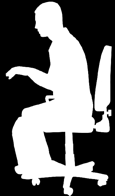
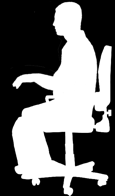
This guy is standing there and... Oh my God!

Changed region(s): [[0.0261, 0.0, 0.887, 0.6429], [0.887, 0.551, 0.913, 0.6122], [0.4435, 0.4592, 0.4696, 0.4898]]

diff --git a/Charity/Charity/Controllers/ChairController.m b/Charity/Charity/Controllers/ChairController.m
@@ -7,6 +7,7 @@
 //
 
 #import <KAProgressLabel/KAProgressLabel.h>
+#import <AudioToolbox/AudioToolbox.h>
 #import "TimerViewController.h"
 #import "ChairController.h"
 
@@ -70,11 +71,11 @@
         [self slouchTimerStart:sat & self.slouched];
     }
 
-    self.silhuetteImageView.image = self.slouched && sat ? [UIImage imageNamed:@"silhuette-red"] : [UIImage imageNamed:@"silhuette"] ;
+    self.silhuetteImageView.image = [self imageForSat:sat slouched:self.slouched];
 
-    [UIView animateWithDuration:0.3 animations:^{
-        self.silhuetteImageView.alpha = sat ? 0.8f : 0.4f;
-    }];
+//    [UIView animateWithDuration:0.3 animations:^{
+//        self.silhuetteImageView.alpha = sat ? 0.8f : 0.4f;
+//    }];
 
     [self sedentaryTimerStart:sat];
 }
@@ -87,13 +88,17 @@
 
     _slouched = slouched;
 
-    self.silhuetteImageView.image = _slouched && self.sat ? [UIImage imageNamed:@"silhuette-red"] : [UIImage imageNamed:@"silhuette"] ;
-
+    self.silhuetteImageView.image = [self imageForSat:self.sat slouched:slouched];
     if (self.sat) {
         [self slouchTimerStart:slouched];
     }
 }
 
+- (UIImage *)imageForSat:(BOOL)sat slouched:(BOOL)slouched {
+    return slouched && sat ? [UIImage imageNamed:@"silhuette-red"]
+                           : ( sat ? [UIImage imageNamed:@"silhuette"]
+                                   : [UIImage imageNamed:@"silhuette-empty"] ) ;
+}
 
 - (void)sedentaryTimerStart:(BOOL)start {
 
@@ -123,6 +128,8 @@
                                                              selector:@selector(slouchTick:)
                                                              userInfo:nil
                                                               repeats:YES];
+        AudioServicesPlayAlertSound(kSystemSoundID_Vibrate);
+        AudioServicesPlaySystemSound(kSystemSoundID_Vibrate);
 
         return;
     }
@@ -157,7 +164,9 @@
 
     CGFloat percentage = (CGFloat) 1.0 - (slouchTime / self.acceptableSlouchTime);
 
-    [self setLabel:self.progressLabelBadPositionTime withTime:self.acceptableSlouchTime - slouchTime percentage:percentage];
+    [self setLabel:self.progressLabelBadPositionTime
+          withTime:self.acceptableSlouchTime - slouchTime
+        percentage:percentage];
 
     if (slouchTime >= self.acceptableSlouchTime) {
         [self slouchTimerStart:NO];
@@ -182,11 +191,12 @@
 
 - (void)setUpViews {
 
-    self.silhuetteImageView.alpha = 0.5f;
+    self.silhuetteImageView.alpha = 1.0f;
+
+    self.silhuetteImageView.image = [self imageForSat:self.sat slouched:self.slouched];
 
     [self setLabel:self.progressLabelBadPositionTime withTime:self.acceptableSlouchTime percentage:1.0];
     [self setLabel:self.progressLabelSedentaryTime withTime:self.acceptableSedentaryTime percentage:1.0];
-
 
     self.progressLabelBadPositionTime.fillColor = [UIColor clearColor];
     self.progressLabelBadPositionTime.trackColor = [UIColor colorWithRed:0.149020 green:0.031373 blue:0.062745 alpha:1.0];
